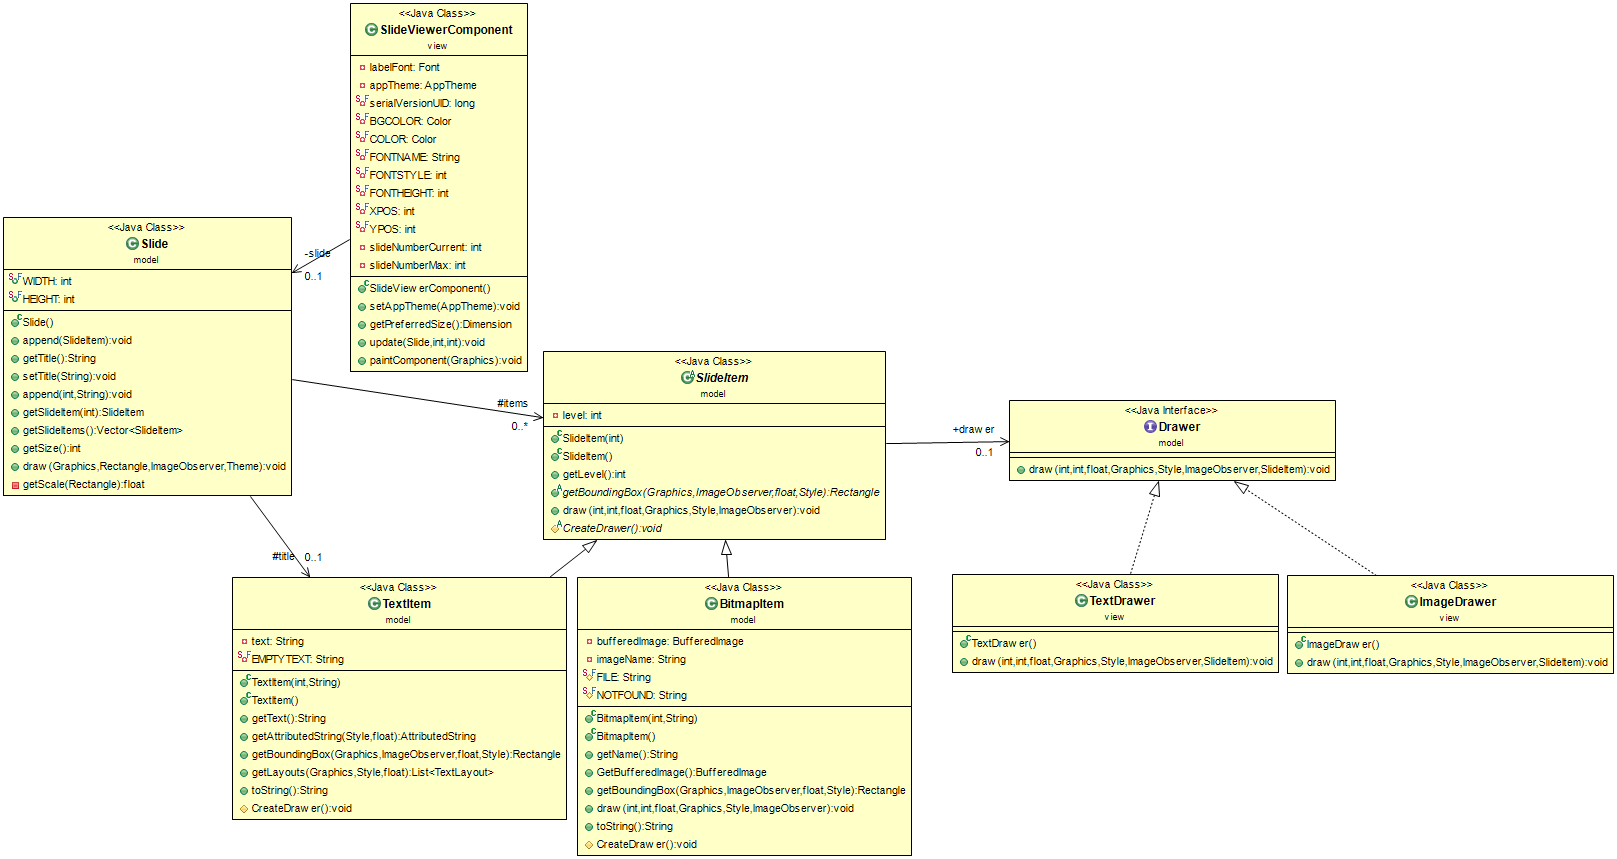
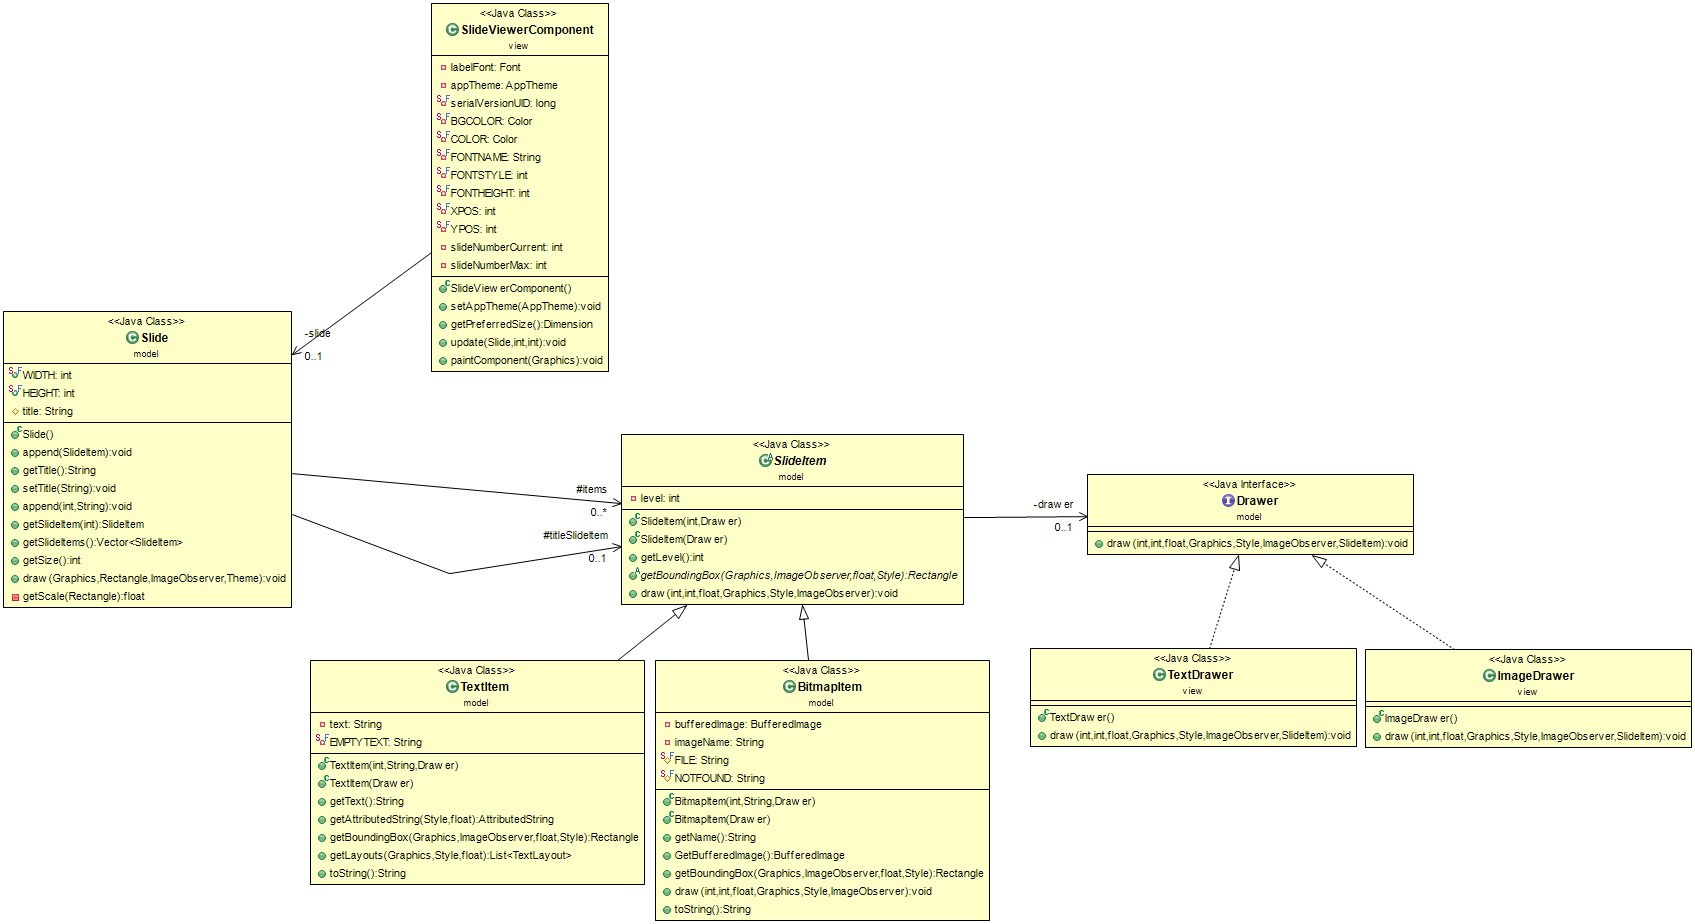
Slide no longer requires to know TextItem.
- Added a title variable to Slide
- Use SlideItemFactory to create a textSlideItem
- Store the textItem as a SlideItem instead of a TextItem

Changed region(s): [[0.0, 0.0, 1.0, 0.9988]]

diff --git a/src/model/Slide.java b/src/model/Slide.java
@@ -21,7 +21,8 @@ public class Slide {
 	public final static int WIDTH = 1200;
 	public final static int HEIGHT = 800;
 	/* Geen String meer maar een TextItem */
-	protected TextItem title; // de titel wordt apart bewaard
+	protected SlideItem titleSlideItem; // de titel wordt apart bewaard
+	protected String title = "";
 	protected Vector<SlideItem> items; // de slide-items worden in een Vector bewaard
 
 	public Slide() {
@@ -36,14 +37,16 @@ public class Slide {
 	// geef de titel van de slide
 	public String getTitle() {
 		/* Geef nu de tekst van het TextItem terug */
-		return title.getText();
+		//return titleSlideItem.getText();
+		return title;
 	}
 
 	// verander de titel van de slide
 	public void setTitle(String newTitle) {
 		/* Cre�er nu een TextItem op basis van de nieuwe titel */
 		//title = new TextItem(0, newTitle);
-		title = (TextItem)SlideItemFactory.createSlideItem(SlideItemFactory.TEXT, 0, newTitle);
+		title = newTitle;
+		titleSlideItem = (TextItem)SlideItemFactory.createSlideItem(SlideItemFactory.TEXT, 0, newTitle);
 	}
 
 	// Maak een TextItem van String, en voeg het TextItem toe
@@ -71,7 +74,7 @@ public class Slide {
 		float scale = getScale(area);
 	    int y = area.y;
 		/* De titel hoeft niet meer apart behandeld te worden */
-	    SlideItem slideItem = this.title;
+	    SlideItem slideItem = this.titleSlideItem;
 	    Style style = theme.getStyle(slideItem.getLevel());
 	    slideItem.draw(area.x, y, scale, g, style, view);
 	    y += slideItem.getBoundingBox(g, view, scale, style).height;
